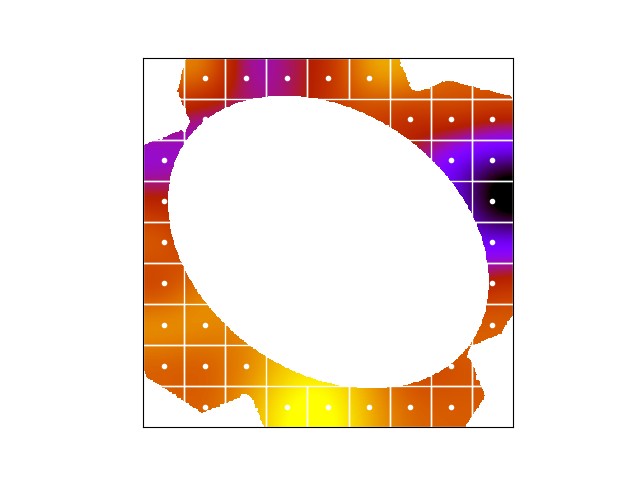
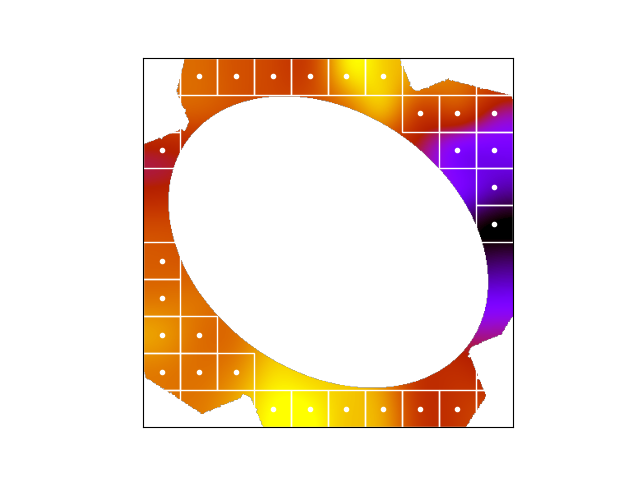
Changes for hip.skySutbract cellFactor

Changed region(s): [[0.2188, 0.125, 0.8125, 0.9062]]

diff --git a/software/hip.html b/software/hip.html
@@ -518,7 +518,7 @@
                             &#160;&#160;&#160;&#160;&#160;diagnosis: True<br>
                             &#160;&#160;&#160;&#160;&#160;parameters:<br>
                             &#160;&#160;&#160;&#160;&#160;- band: all<br>
-                            &#160;&#160;&#160;&#160;&#160;&#160;&#160;cellFactor: 2<br>
+                            &#160;&#160;&#160;&#160;&#160;&#160;&#160;cellFactor: 10<br>
                         </i>
                    </td>
                </tr>
@@ -550,9 +550,9 @@
         object from photutils. First, a low-resolution background map is
         estimated within boxes of a grid, and then interpolated to create the
         final background map to be subtracted. The <i>cellFactor</i> is an
-        integer multipler factor of the instrument's resolution per every box of
-        the grid. A larger <i>cellFactor</i> results in smaller boxes, and
-        therefore a finer grid. A fine grid is not necessarily the optimal
+        integer multipler factor of the instrument's resolution per box of
+        the grid. A larger <i>cellFactor</i> results in larger boxes, and
+        therefore a coarser grid. A fine grid is not necessarily the optimal
         choice, as one would want to interpolate the background while also
         capturing its large-scale structure.<br><br>
         <table style="text-align:left; width:100%; border=4"> 
@@ -563,9 +563,9 @@
                         "Sky-subtract meshes for PACS1 image of NGC4254." width=
                         "100%" title="SkySubtract meshes example"> <p
                         style="color:rgb(51,51,153);text-align:center"> <i>Grid
-                        structure corresponding to a cellFactor of 2 for PACS1.
-                        In that case, every box is 9 pixels wide or 18 arcseconds.
-                        arcseconds.</i></p><br>
+                        structure corresponding to a cellFactor of 10 for PACS1.
+                        In that case, every box is 23 pixels wide or 46 arcseconds.
+                        </i></p><br>
                     </td>
                 </tr>
             </tbody>
@@ -784,7 +784,7 @@
                         &#160;&#160;&#160;&#160;&#160;diagnosis: True<br>
                         &#160;&#160;&#160;&#160;&#160;parameters:<br>
                         &#160;&#160;&#160;&#160;&#160;- band: all<br>
-                        &#160;&#160;&#160;&#160;&#160;&#160;&#160;cellFactor: 2<br><br>
+                        &#160;&#160;&#160;&#160;&#160;&#160;&#160;cellFactor: 10<br><br>
 
                         &#160;&#160; - step: hip.degrade<br>
                         &#160;&#160;&#160;&#160;&#160;diagnosis: True<br>
